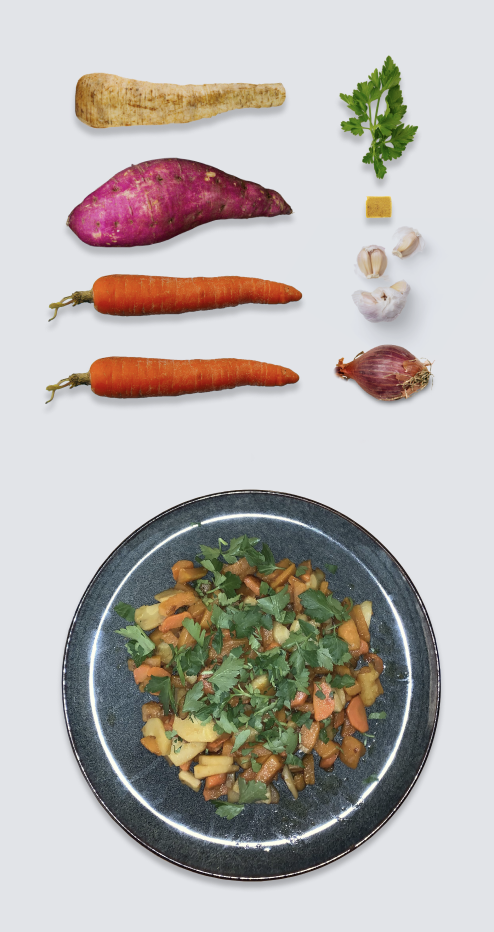
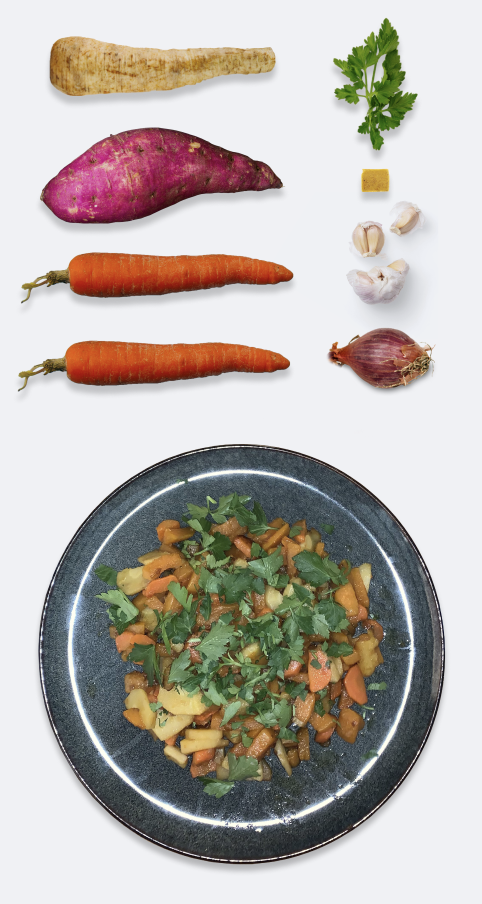
add recette

diff --git a/src/App.js b/src/App.js
@@ -5,6 +5,7 @@ import TopbarComponent from './Components/LandingComponents/TopbarComponent';
 import AboutContainer from './Containers/AboutContainer/AboutContainer';
 
 import LandingContainer from './Containers/LandingContainer/LandingContainer';
+import RecetteContainer from './Containers/RecetteContainer/RecetteContainer';
 
 function App() {
   return (
@@ -13,25 +14,10 @@ function App() {
       <Switch>
         <Route path="/" exact component={LandingContainer} />
         <Route path="/about" exact component={AboutContainer} />
+        <Route path="/recette" exact component={RecetteContainer} />
       </Switch>
       <FooterComponent />
     </div>
-    // <div className="App">
-    //   <header className="App-header">
-    //     <img src={logo} className="App-logo" alt="logo" />
-    //     <p>
-    //       Edit <code>src/App.js</code> and save to reload.
-    //     </p>
-    //     <a
-    //       className="App-link"
-    //       href="https://reactjs.org"
-    //       target="_blank"
-    //       rel="noopener noreferrer"
-    //     >
-    //       Learn React
-    //     </a>
-    //   </header>
-    // </div>
   );
 }
 

diff --git a/src/Components/LandingComponents/TopbarComponent.js b/src/Components/LandingComponents/TopbarComponent.js
@@ -11,6 +11,7 @@ const TopbarComponent = () => {
             </a>
             <div className="rightNav" id="navbarNavAltMarkup">
                 <div className="navbar-nav">
+                    <a className="nav-item nav-link" href="/recette">Recette</a>
                     <a className="nav-item nav-link" href="https://lydia-app.com/collect/48418-stud-eat/fr">Commander</a>
                     <a className="nav-item nav-link" href="/about">À propos</a>
                 </div>

diff --git a/src/Containers/RecetteContainer/RecetteContainer.js b/src/Containers/RecetteContainer/RecetteContainer.js
@@ -1,0 +1,12 @@
+import React from 'react';
+import Recette from '../../DocLandingPage/recette2.png';
+
+const RecetteContainer = () => {
+    return (
+        <div style={{"width": "100%"}}>
+            <img src={Recette} style={{"width": "100%"}} className="recetteImg" />
+        </div>
+    )
+}
+
+export default RecetteContainer;

diff --git a/src/Components/RecipeComponent/RecipeComponent.scss b/src/Components/RecipeComponent/RecipeComponent.scss
@@ -1,5 +1,5 @@
 .recipeContainer {
-    background-color: #E2E4E9;
+    background-color: #F0F1F4;
     width: 80%;
     margin-left: auto;
     margin-right: auto;

diff --git a/src/Components/LandingComponents/TopbarComponent.scss b/src/Components/LandingComponents/TopbarComponent.scss
@@ -10,3 +10,8 @@
     justify-content: space-between;;
 }
 
+.nav-item {
+    @media screen and (max-width: 425px) {
+        font-size: 12px;
+    }
+}
